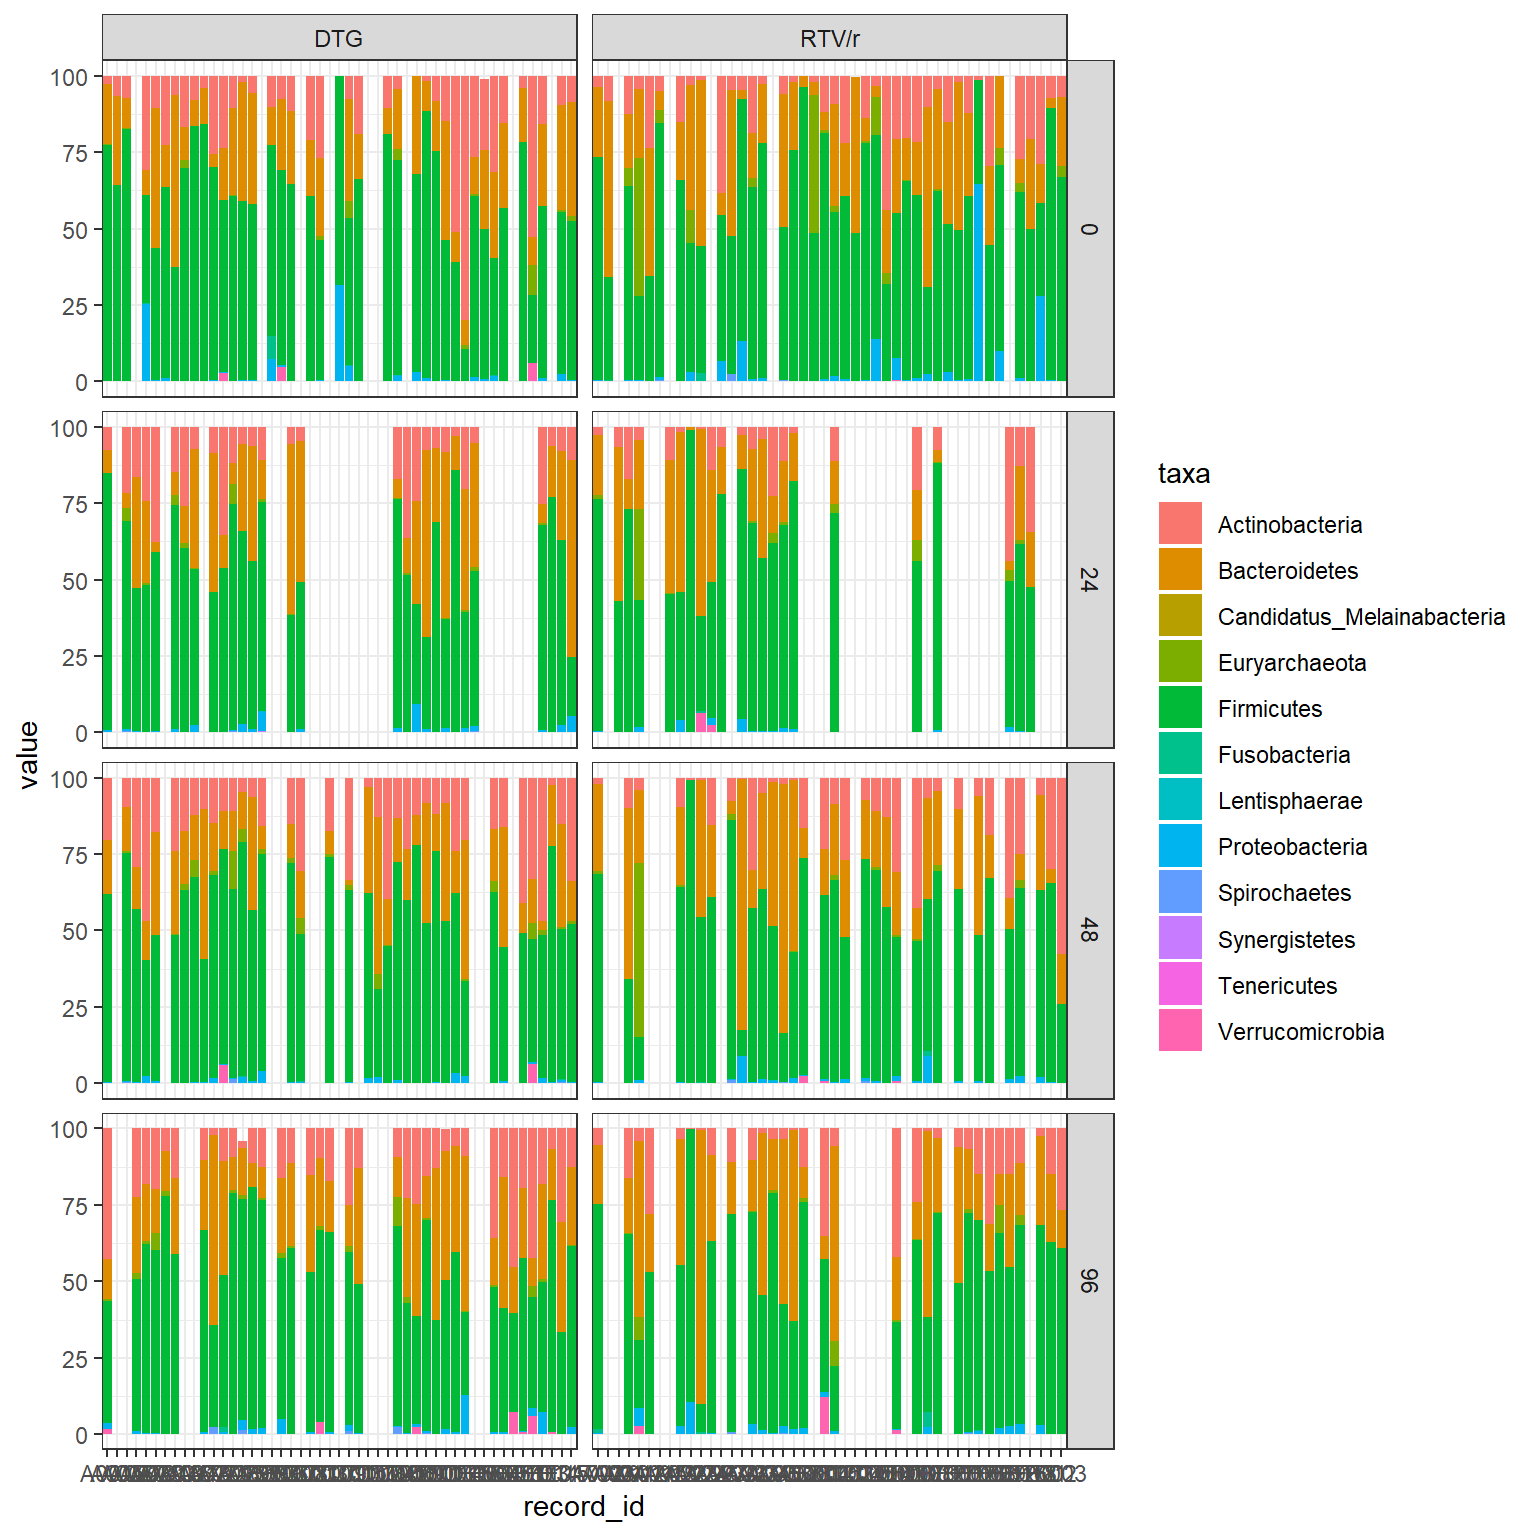
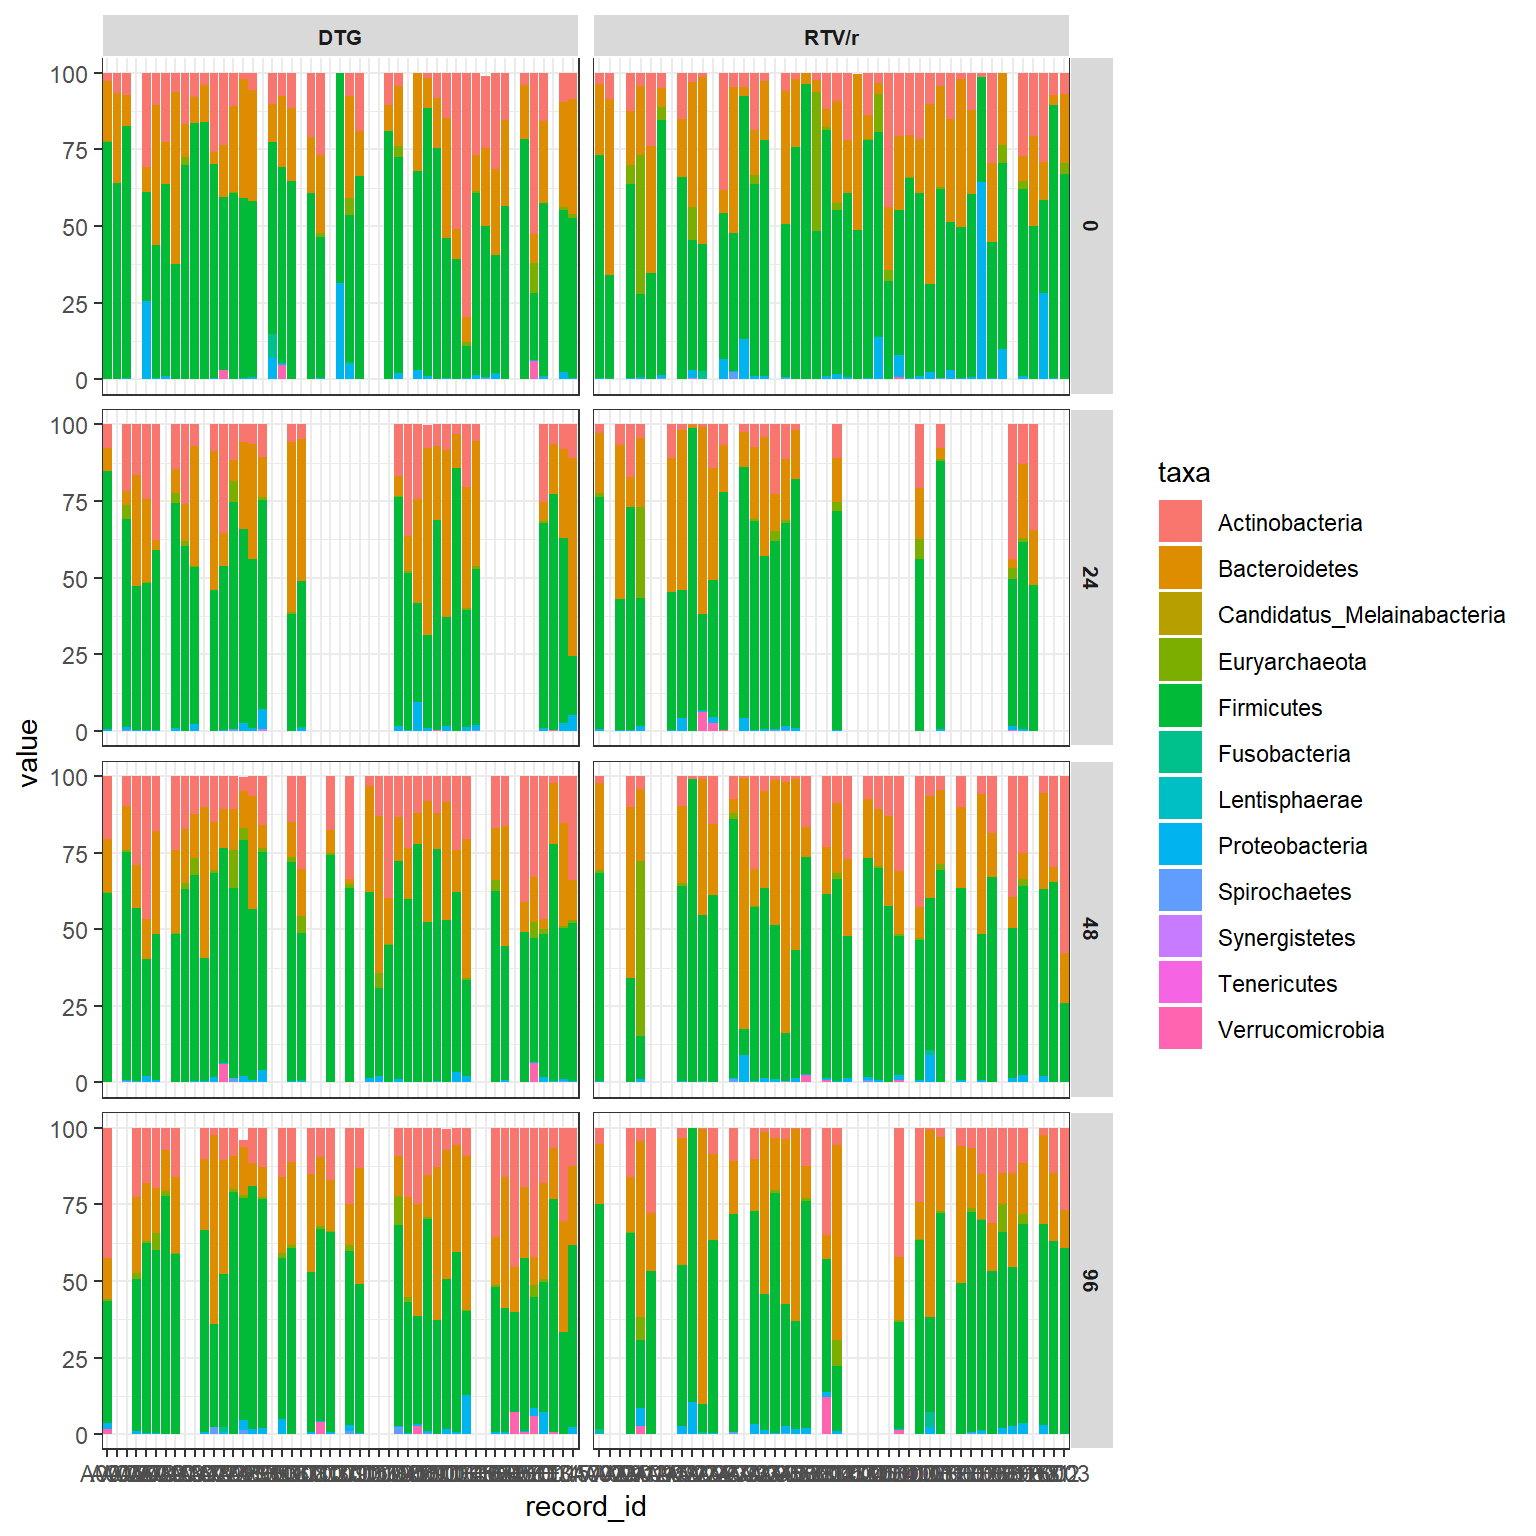
fixed bad title

diff --git a/docs/410_Taxonomy_Exploration.html b/docs/410_Taxonomy_Exploration.html
@@ -398,16 +398,16 @@ This reproducible <a href="https://rmarkdown.rstudio.com">R Markdown</a> analysi
 <div class="panel panel-default">
 <div class="panel-heading">
 <p class="panel-title">
-<a data-toggle="collapse" data-parent="#workflowr-checks" href="#strongRepositoryversionstrongahrefhttpsgithubcomMicrobialGenomicsadvanz4tree7d67e12d5f11c669abfa93c04ddc09ad23be5713targetblank7d67e12a"> <span class="glyphicon glyphicon-ok text-success" aria-hidden="true"></span> <strong>Repository version:</strong> <a href="https://github.com/MicrobialGenomics/advanz4/tree/7d67e12d5f11c669abfa93c04ddc09ad23be5713" target="_blank">7d67e12</a> </a>
+<a data-toggle="collapse" data-parent="#workflowr-checks" href="#strongRepositoryversionstrongahrefhttpsgithubcomMicrobialGenomicsadvanz4tree4ded18920e2d560074227478b8412cca0d7a3562targetblank4ded189a"> <span class="glyphicon glyphicon-ok text-success" aria-hidden="true"></span> <strong>Repository version:</strong> <a href="https://github.com/MicrobialGenomics/advanz4/tree/4ded18920e2d560074227478b8412cca0d7a3562" target="_blank">4ded189</a> </a>
 </p>
 </div>
[2 lines of base64/hex data omitted]
 <div class="panel-body">
 <p>
 Great! You are using Git for version control. Tracking code development and connecting the code version to the results is critical for reproducibility.
 </p>
 <p>
-The results in this page were generated with repository version <a href="https://github.com/MicrobialGenomics/advanz4/tree/7d67e12d5f11c669abfa93c04ddc09ad23be5713" target="_blank">7d67e12</a>. See the <em>Past versions</em> tab to see a history of the changes made to the R Markdown and HTML files.
+The results in this page were generated with repository version <a href="https://github.com/MicrobialGenomics/advanz4/tree/4ded18920e2d560074227478b8412cca0d7a3562" target="_blank">4ded189</a>. See the <em>Past versions</em> tab to see a history of the changes made to the R Markdown and HTML files.
 </p>
 <p>
 Note that you need to be careful to ensure that all relevant files for the analysis have been committed to Git prior to generating the results (you can use <code>wflow_publish</code> or <code>wflow_git_commit</code>). workflowr only checks the R Markdown file, but you know if there are other scripts or data files that it depends on. Below is the status of the Git repository when the results were generated:
@@ -418,9 +418,6 @@ Ignored files:
     Ignored:    .Rhistory
     Ignored:    .Rproj.user/
     Ignored:    data/mre.rds
-
-Untracked files:
-    Untracked:  analysis/output/
 
 Unstaged changes:
     Modified:   analysis/410_Taxonomy_Exploration.Rmd
@@ -462,6 +459,40 @@ Message
 </tr>
 </thead>
 <tbody>
+<tr>
+<td>
+Rmd
+</td>
+<td>
+<a href="https://github.com/MicrobialGenomics/advanz4/blob/4ded18920e2d560074227478b8412cca0d7a3562/analysis/410_Taxonomy_Exploration.Rmd" target="_blank">4ded189</a>
+</td>
+<td>
+cblazquez-irsi
+</td>
+<td>
+2022-03-29
+</td>
+<td>
+Started Taxonomy barplots
+</td>
+</tr>
+<tr>
+<td>
+html
+</td>
+<td>
+<a href="https://rawcdn.githack.com/MicrobialGenomics/advanz4/4ded18920e2d560074227478b8412cca0d7a3562/docs/410_Taxonomy_Exploration.html" target="_blank">4ded189</a>
+</td>
+<td>
+cblazquez-irsi
+</td>
+<td>
+2022-03-29
+</td>
+<td>
+Started Taxonomy barplots
+</td>
+</tr>
 <tr>
 <td>
 html
@@ -563,13 +594,52 @@ myBarplots &lt;- CategoricalVariablesDF$CategoricalVariable %&gt;%
       ggplot(dat, aes(x=record_id, y = value, fill = taxa)) +
       facet_grid( time_point ~ cat_var,scales=&quot;free_x&quot; ) +
       geom_bar(position = &quot;stack&quot;, stat = &quot;identity&quot;) +
-      theme_bw() 
+      theme_bw() +
+      theme(strip.text = element_text(size=8, face=&quot;bold&quot;),
+            strip.background = element_rect(colour = &quot;white&quot;))
     
   })
 
 
-myBarplots$group</code></pre>
+myBarplots</code></pre>
+<pre><code>$group</code></pre>
 <p><img src="figure/410_Taxonomy_Exploration.Rmd/Species_level-1.png" width="768" style="display: block; margin: auto;" /></p>
+<pre><code>
+$risk_group</code></pre>
+<p><img src="figure/410_Taxonomy_Exploration.Rmd/Species_level-2.png" width="768" style="display: block; margin: auto;" /></p>
+<pre><code>
+$center</code></pre>
+<p><img src="figure/410_Taxonomy_Exploration.Rmd/Species_level-3.png" width="768" style="display: block; margin: auto;" /></p>
+<pre><code>
+$gender</code></pre>
+<p><img src="figure/410_Taxonomy_Exploration.Rmd/Species_level-4.png" width="768" style="display: block; margin: auto;" /></p>
+<pre><code>
+$ethnic_group</code></pre>
+<p><img src="figure/410_Taxonomy_Exploration.Rmd/Species_level-5.png" width="768" style="display: block; margin: auto;" /></p>
+<pre><code>
+$CD4diff_48</code></pre>
+<p><img src="figure/410_Taxonomy_Exploration.Rmd/Species_level-6.png" width="768" style="display: block; margin: auto;" /></p>
+<pre><code>
+$CD8diff_48</code></pre>
+<p><img src="figure/410_Taxonomy_Exploration.Rmd/Species_level-7.png" width="768" style="display: block; margin: auto;" /></p>
+<pre><code>
+$CD4after_48</code></pre>
+<p><img src="figure/410_Taxonomy_Exploration.Rmd/Species_level-8.png" width="768" style="display: block; margin: auto;" /></p>
+<pre><code>
+$CD8after_48</code></pre>
+<p><img src="figure/410_Taxonomy_Exploration.Rmd/Species_level-9.png" width="768" style="display: block; margin: auto;" /></p>
+<pre><code>
+$CD4diff_96</code></pre>
+<p><img src="figure/410_Taxonomy_Exploration.Rmd/Species_level-10.png" width="768" style="display: block; margin: auto;" /></p>
+<pre><code>
+$CD8diff_96</code></pre>
+<p><img src="figure/410_Taxonomy_Exploration.Rmd/Species_level-11.png" width="768" style="display: block; margin: auto;" /></p>
+<pre><code>
+$CD4after_96</code></pre>
+<p><img src="figure/410_Taxonomy_Exploration.Rmd/Species_level-12.png" width="768" style="display: block; margin: auto;" /></p>
+<pre><code>
+$CD8after_96</code></pre>
+<p><img src="figure/410_Taxonomy_Exploration.Rmd/Species_level-13.png" width="768" style="display: block; margin: auto;" /></p>
 </div>
 <div id="additional-analysis" class="section level1">
 <h1>Additional analysis</h1>
